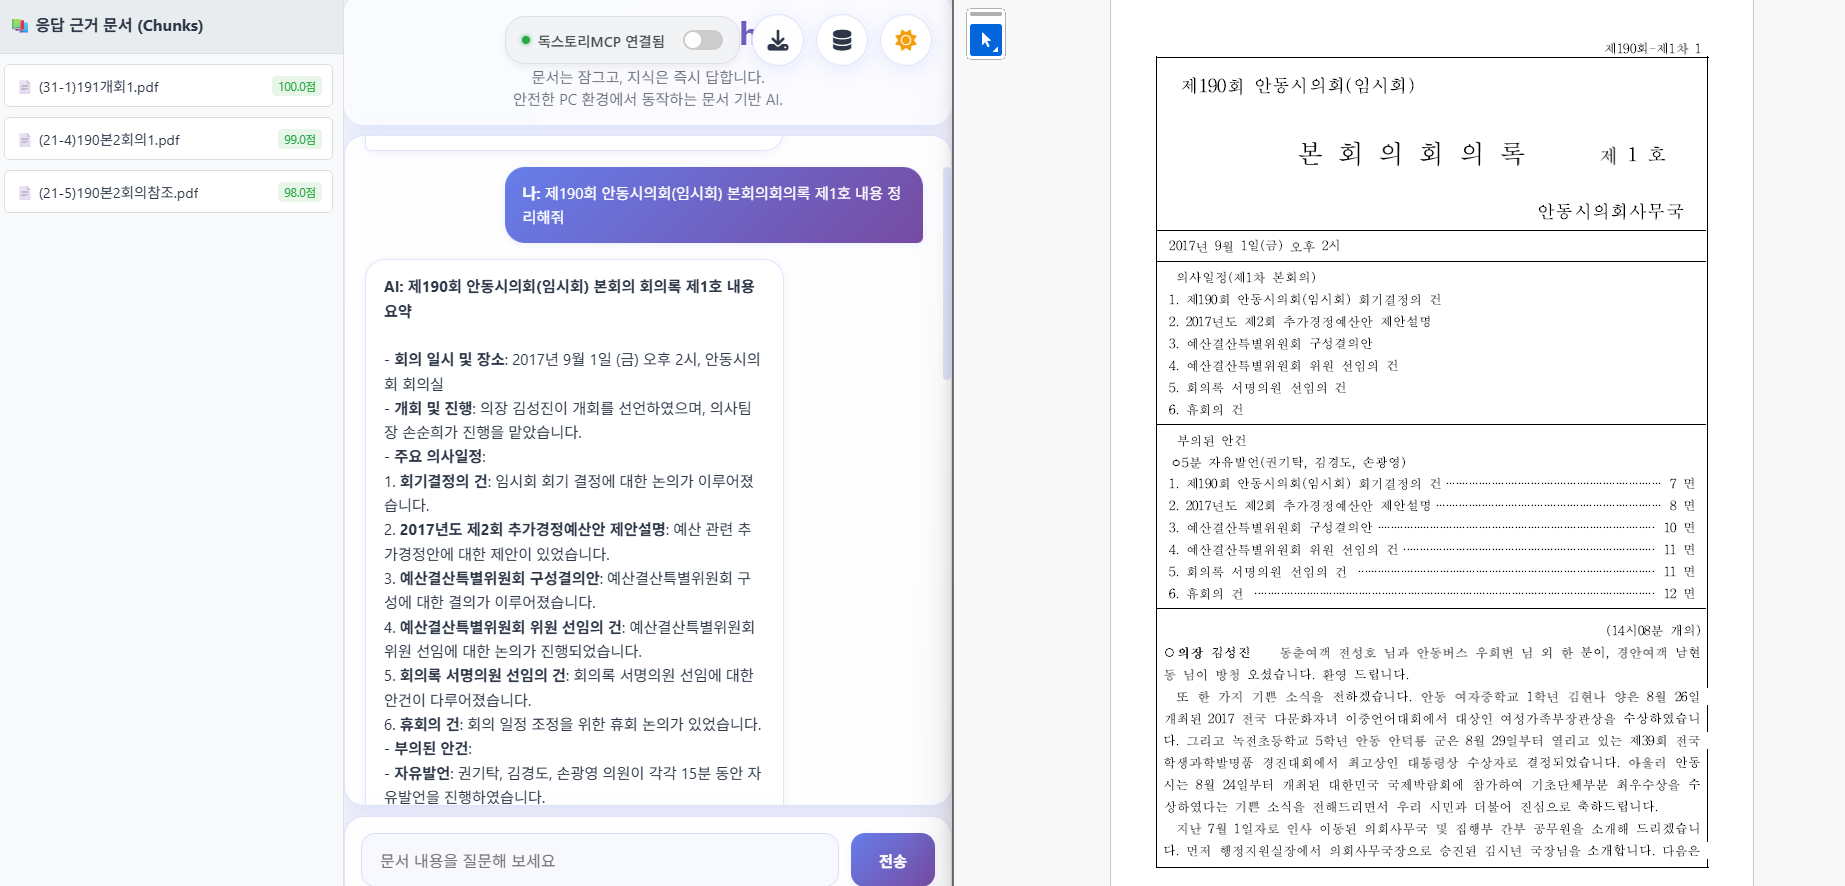
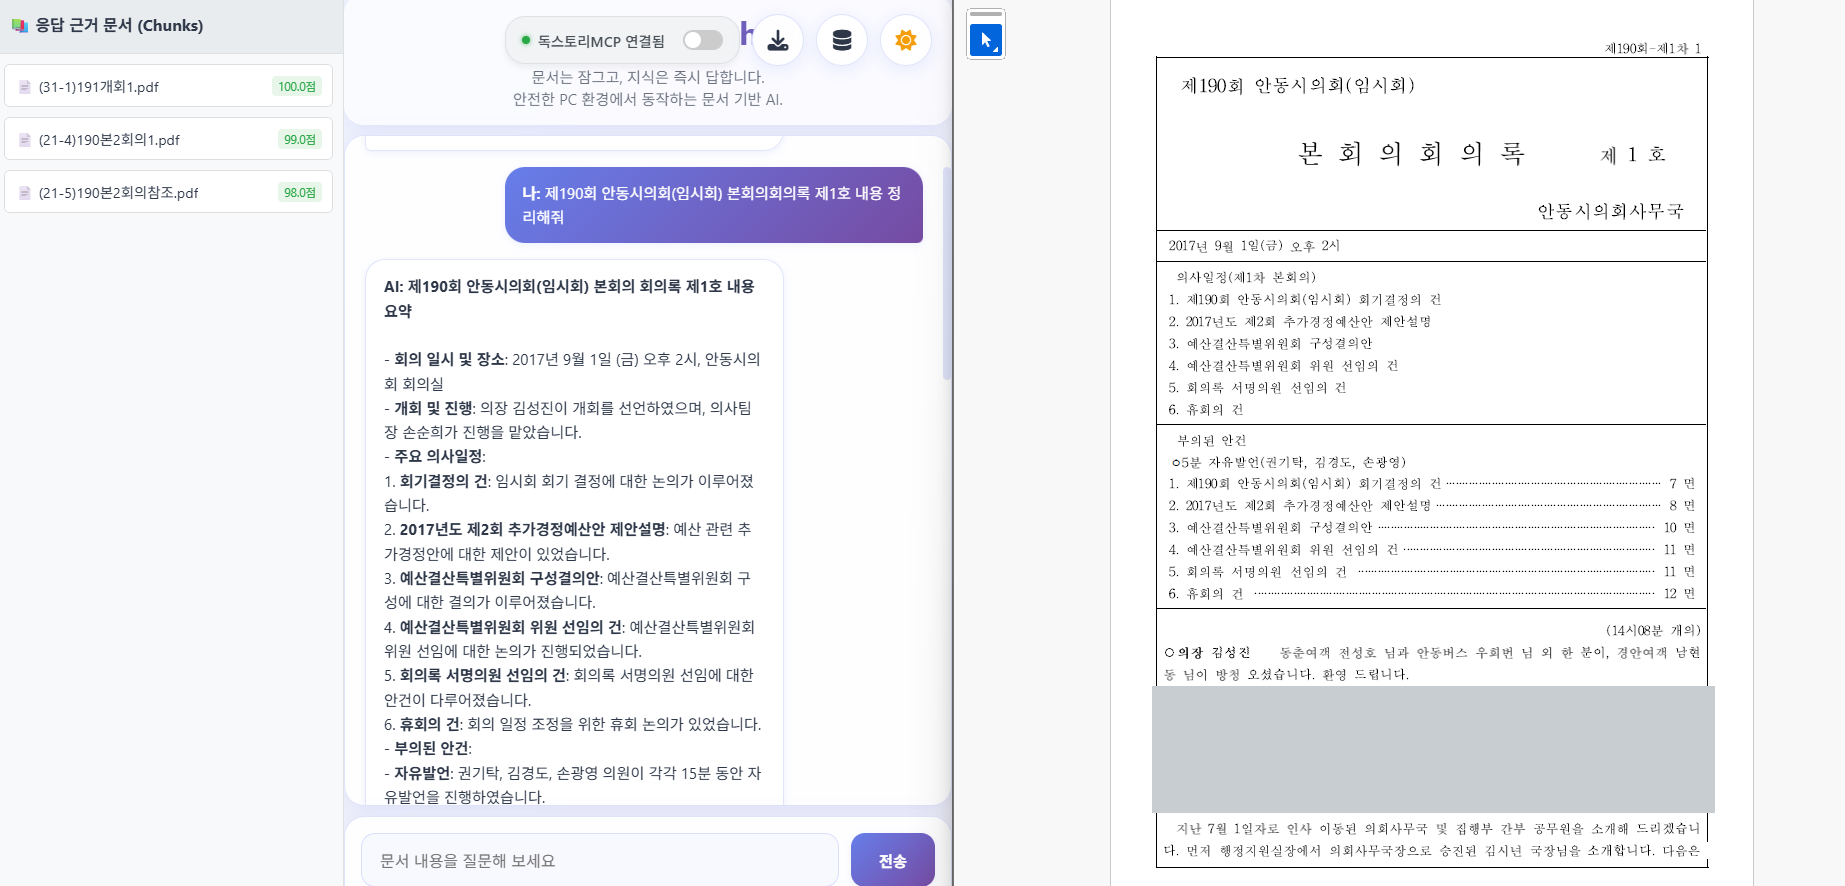
Redact minors' names and a colleague's account name

Changed region(s): [[0.6179, 0.7619, 0.9268, 0.9447]]

diff --git a/index.html b/index.html
@@ -276,7 +276,7 @@ main{padding:56px 0 96px;min-width:0}
         <li>경력 9년 8개월</li>
         <li>에스엠테크놀러지 재직 중</li>
         <li>정보보호 석사 · 랜섬웨어 탐지 연구</li>
-        <li>Java · Python · Rust</li>
+        <li>Java · Spring · Python · Rust</li>
       </ul>
     </section>
 
@@ -1062,14 +1062,14 @@ main{padding:56px 0 96px;min-width:0}
           <ul class="cred-list">
             <li>
               <div>
-                <b>동국대학교 국제정보대학원</b>
+                <b>동국대학교 국제정보보호대학원</b>
                 <span>정보보호 석사 · 졸업 · 학점 4.2 / 4.5</span>
               </div>
               <em>2015.02~2017.03</em>
             </li>
             <li>
               <div>
-                <b>강원대학교(삼척)</b>
+                <b>강원대학교</b>
                 <span>정보통신공학 학사 · 졸업 · 학점 4.1 / 4.5</span>
               </div>
               <em>2009.03~2014.12</em>
